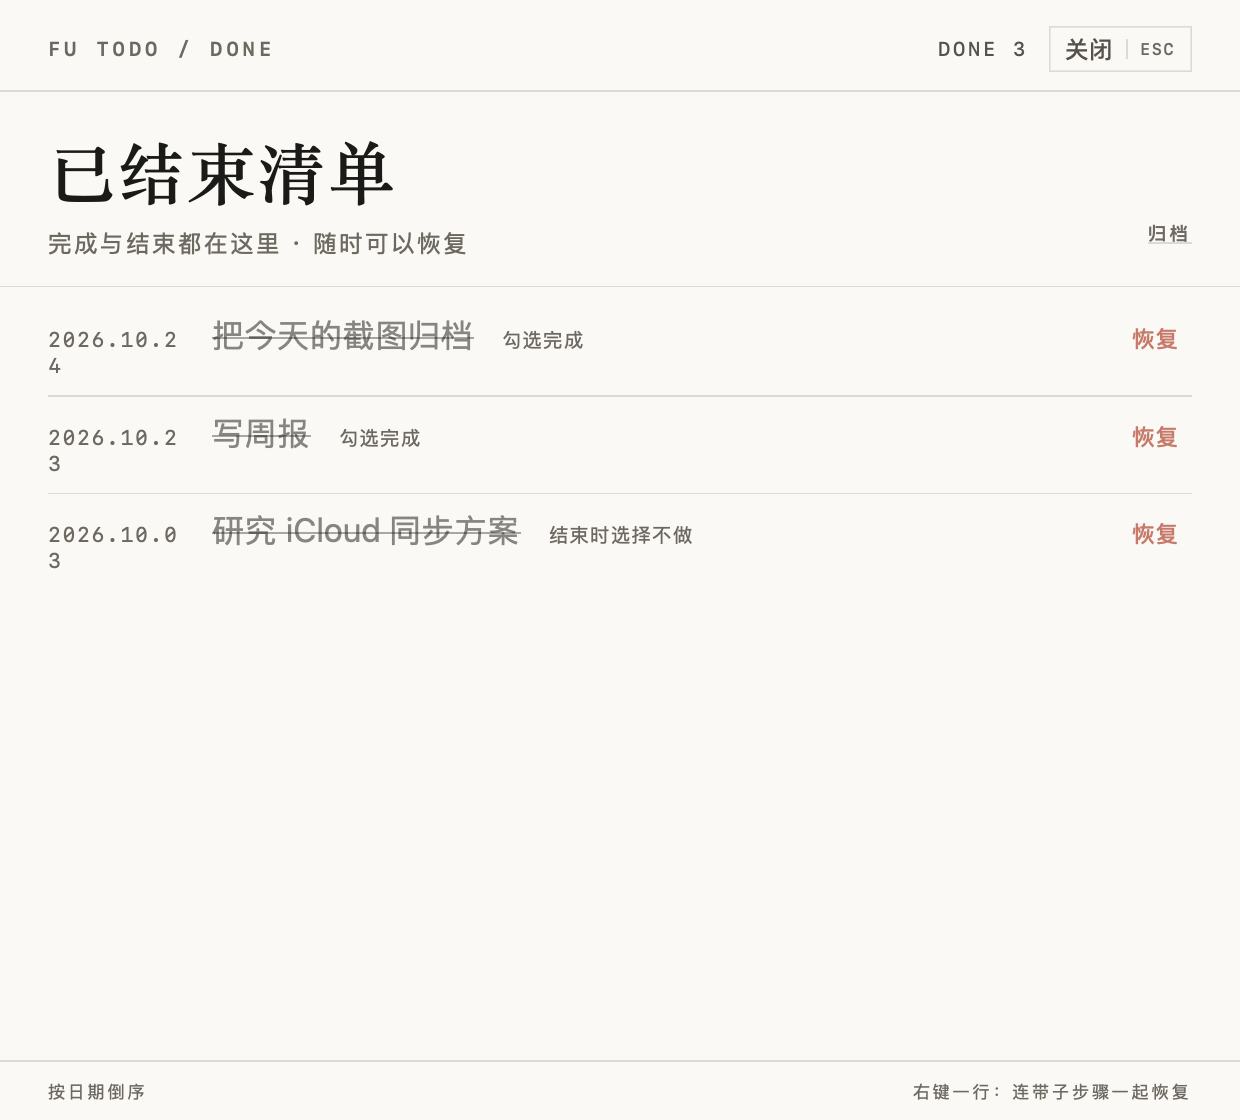
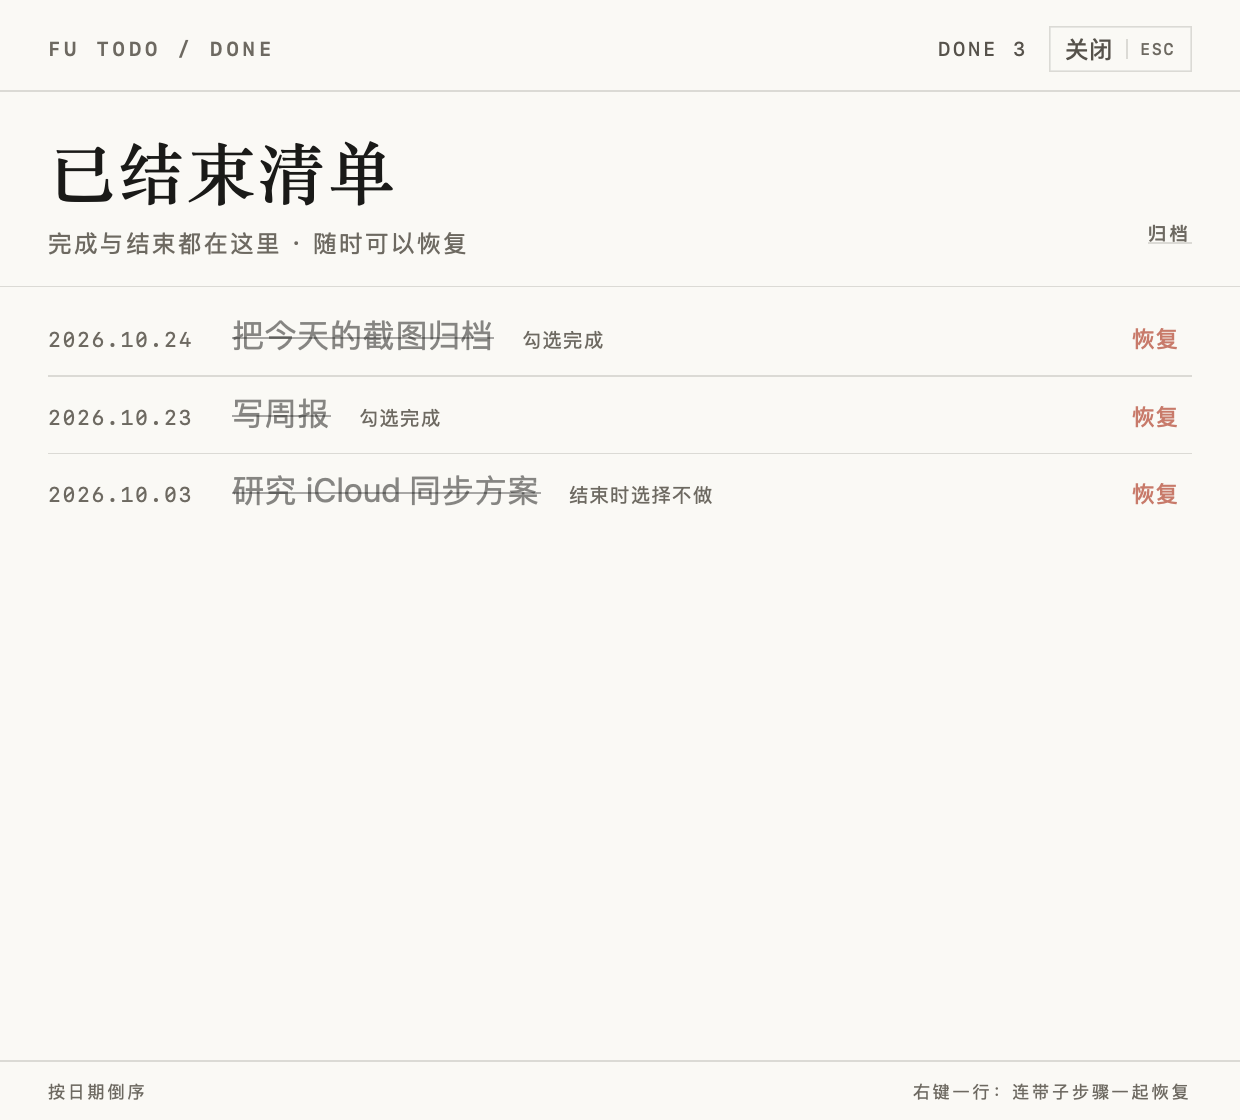
四项修复：已完成面板子树补编号；已结束清单日期列加宽单行不折行；主线标题编辑只改标题本身（回车/Tab 不再续接出支线输入框，二级走＋下级/编辑链）；拖动开始即收起侧栏输入

Changed region(s): [[0.0306, 0.3438, 0.5823, 0.5], [0.1532, 0.2812, 0.4903, 0.3125], [0.8887, 0.3438, 0.95, 0.5]]

diff --git a/app/Sources/UI/TaskRowView.swift b/app/Sources/UI/TaskRowView.swift
@@ -256,6 +256,8 @@ public struct TaskRowView: View {
     private var isCreatingUnderThis: Bool { session.isCreating && session.targetId == task.id }
     /// glitch 套印只给夜之城的主线标题，且未完成时才亮。
     private var glitch: Bool { Theme.isNight && isMain && level == 1 && !task.done }
+    /// 主线标题的编辑只改标题本身：回车/Tab 不续接新建（二级走「＋下级」或它的编辑链）。
+    private var mainEditContinues: Bool { !(isMain && level == 1) }
     /// 夜之城：支线一级行的勾选框是菱形（Side Job 的角色语言），其余照旧。
     private var useDiamondRing: Bool { Theme.isNight && level == 1 && !isMain }
 
@@ -471,16 +473,17 @@ public struct TaskRowView: View {
         VStack(alignment: .leading, spacing: 1) {
             if isEditingThis {
                 HStack(spacing: 8) {
-                    TextField("", text: $session.text)
+                        TextField("", text: $session.text)
                         .textFieldStyle(.plain)
                         .font(Theme.titleFont(level, isMain: isMain))
                         .foregroundStyle(ci)
                         .focused($inputFocused)
                         .onAppear { focusSoon() }
-                        .onSubmit { session.commit(store: store, editContinue: continueMode) }
+                        // 主线标题只编辑本身：回车/Tab 都不续接（主线面板里不会开出支线）
+                        .onSubmit { session.commit(store: store, editContinue: mainEditContinues ? continueMode : nil) }
                         .onExitCommand { session.close() }
                         .onKeyPress(.tab) {
-                            session.commit(store: store, editContinue: .child)
+                            session.commit(store: store, editContinue: mainEditContinues ? .child : nil)
                             return .handled
                         }
                 }

diff --git a/app/Sources/UI/DayPageView.swift b/app/Sources/UI/DayPageView.swift
@@ -530,7 +530,7 @@ public struct DayPageView: View {
                             VStack(alignment: .leading, spacing: 0) {
                                 TaskRowView(task: task, level: 1, readOnly: true, showsRevert: true, showsRoleGlyph: false, onCard: true, showsFolio: true)
                                 if !collapseCards {
-                                    TaskSubtreeView(parentId: task.id, level: 2, readOnly: true, showsRevert: true, showsRails: false, showsRoleGlyph: false, onCard: true)
+                                    TaskSubtreeView(parentId: task.id, level: 2, readOnly: true, showsRevert: true, showsRails: false, showsRoleGlyph: false, onCard: true, showsFolio: true)
                                 }
                             }
                             .padding(.vertical, 8)

diff --git a/app/Sources/UI/Sheets.swift b/app/Sources/UI/Sheets.swift
@@ -450,7 +450,9 @@ private struct DoneRowView: View {
                 .font(Theme.mono(9.5))
                 .tracking(0.8)
                 .foregroundStyle(Theme.ink3)
-                .frame(width: 68, alignment: .leading)
+                .lineLimit(1)
+                .fixedSize()
+                .frame(width: 78, alignment: .leading)
             Text(task.title)
                 .font(Theme.sans(Theme.mainSize))
                 .foregroundStyle(Theme.doneInk)
